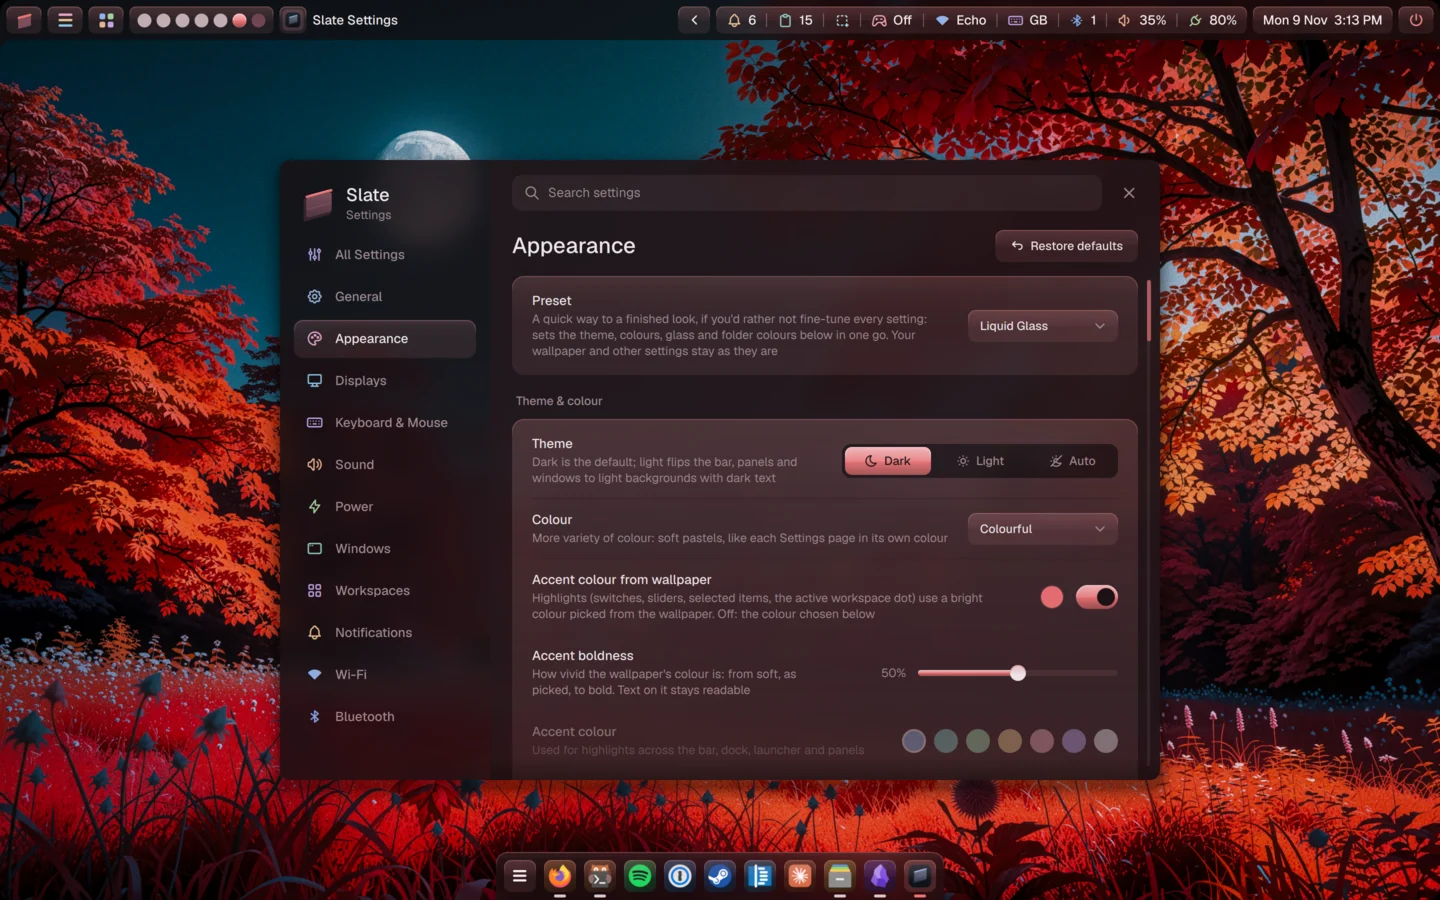
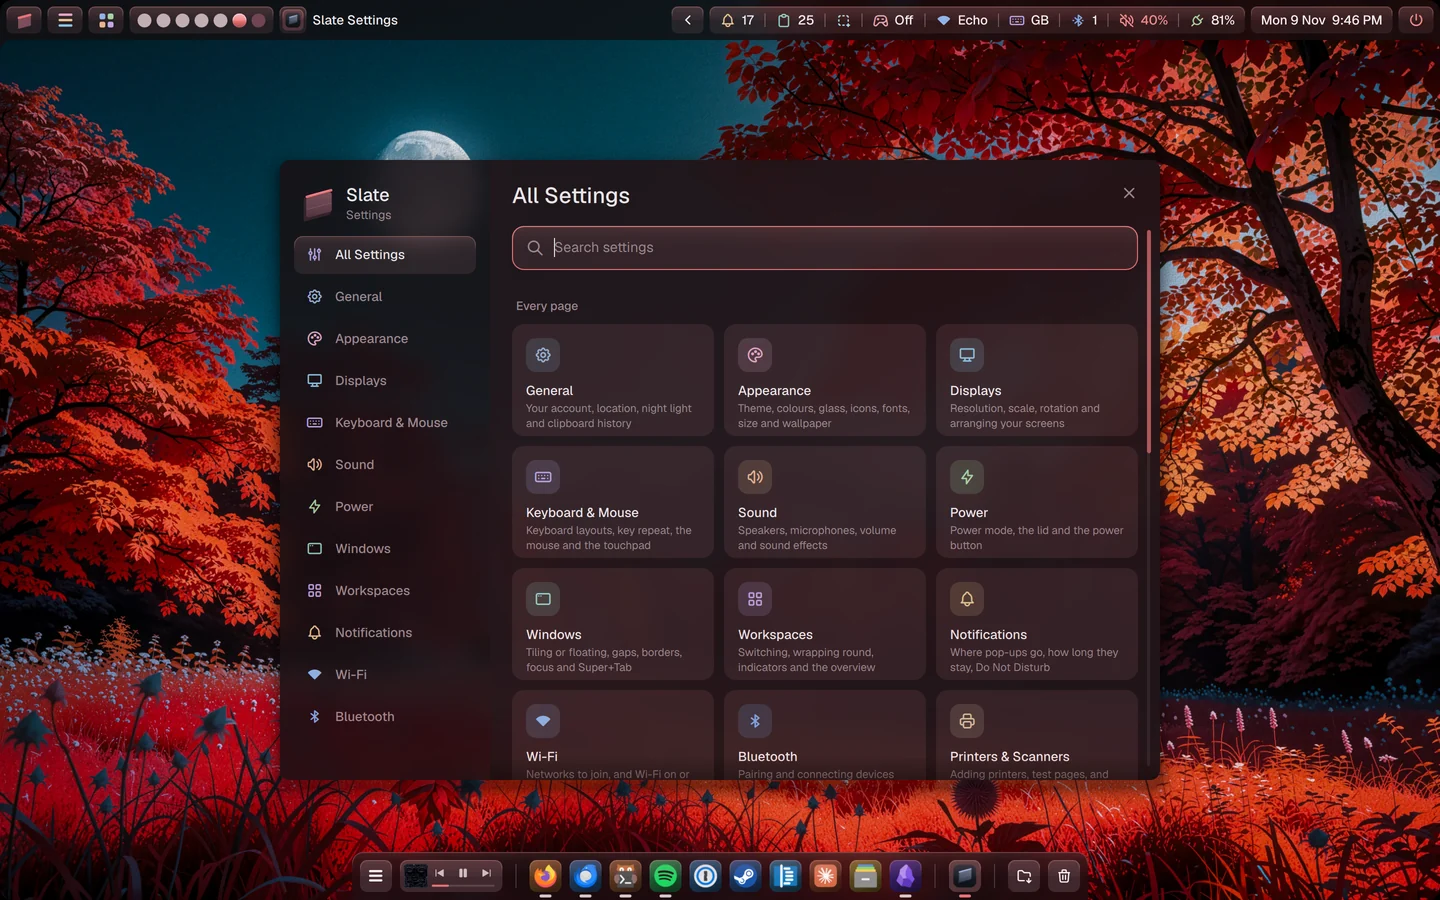
docs(site): update Dayle's current desktop

diff --git a/site/index.html b/site/index.html
@@ -340,9 +340,9 @@
 <section id="desktop" class="desktop">
   <h2>Dayle's current desktop</h2>
   <p class="sub">Slate as it looks on my own laptop right now, day to day: the Liquid Glass
-    preset, colours from the wallpaper, and Settings open on Appearance.</p>
-  <figure><img class="shot-frame" src="shots/daylesdesktop.webp?v=1" width="1440" height="900" loading="lazy"
-    alt="Slate on Dayle's laptop: the menu bar and dock in red-tinted glass over a painted autumn forest under a full moon, with Slate Settings open on the Appearance page"></figure>
+    preset, colours from the wallpaper, and Settings open on All Settings.</p>
+  <figure><img class="shot-frame" src="shots/daylesdesktop.webp?v=2" width="1440" height="900" loading="lazy"
+    alt="Slate on Dayle's laptop: the menu bar and dock in red-tinted glass over a painted autumn forest under a full moon, with Slate Settings open on All Settings"></figure>
 </section>
 
 <section class="more">
